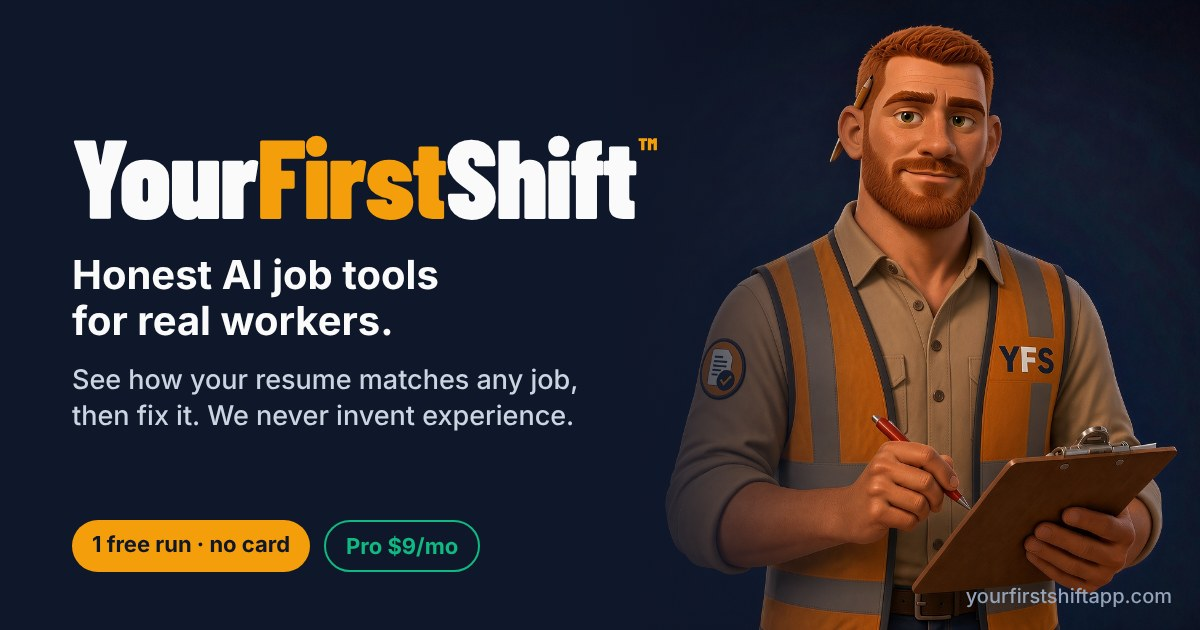
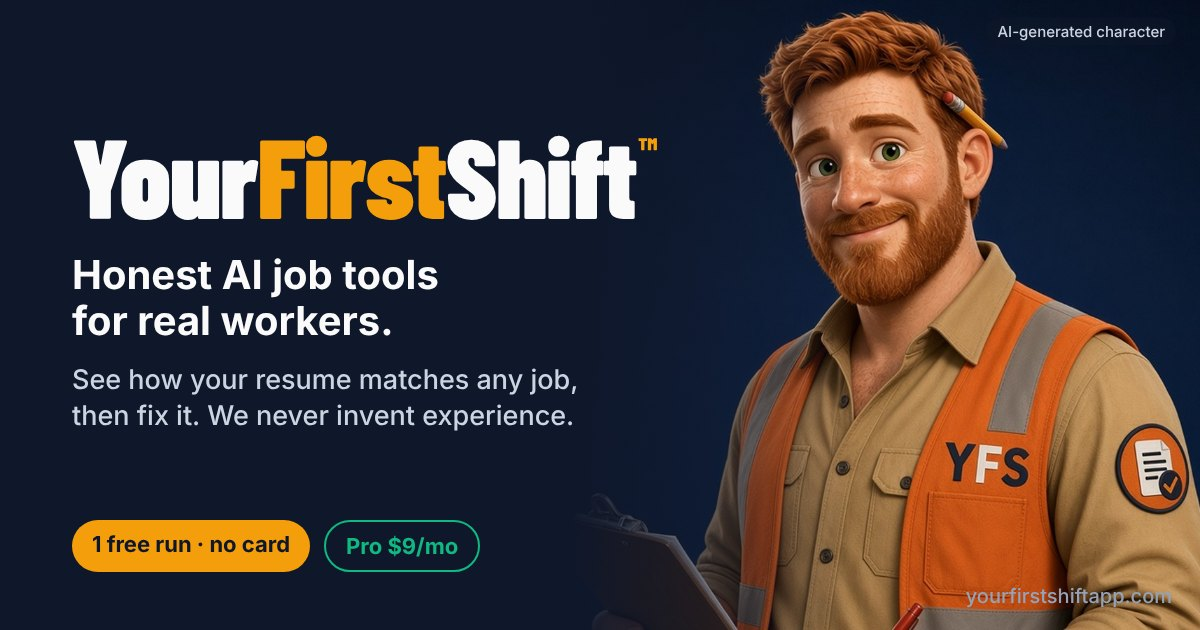
og-image: switch link preview to the approved curly Owen
Same layout and copy as before; adds an AI-generated character label.
Only og-image.jpg changes; no app or Worker code touched.

Claude-Session: https://claude.ai/code/session_01DFL7XLFVWtgxsggFR62FwX

Changed region(s): [[0.5242, 0.0, 1.0, 1.0], [0.8325, 0.0302, 0.9867, 0.0603]]

diff --git a/docs/returns/CLAUDE-RETURN-og-curly.md b/docs/returns/CLAUDE-RETURN-og-curly.md
@@ -1,0 +1,11 @@
+# CLAUDE RETURN: og-curly (link preview uses the new curly Owen)
+
+**What:** Replaces `og-image.jpg` (1200x630, 94 KB) with a version that uses the approved curly-hair Owen (OWEN MASTER front, curly, 2026-11-07). Same layout, text and colors as before. Adds a small "AI-generated character" label, top right.
+
+**Files:** `og-image.jpg` only (plus this note). No change to app.html, the Worker, checkout, pricing, Pro/pack, org codes or Stripe.
+
+**Deploy:** Upload the new `og-image.jpg` to the site root (same URL as now). Nothing else.
+
+**After deploy:** iMessage, Facebook and TikTok cache link previews, so old shares may show short-hair Owen for a few days. New shares pick it up faster. Facebook's Sharing Debugger "Scrape again" forces a refresh.
+
+**Phone check:** text yourself https://yourfirstshiftapp.com/app.html?v=og2 and confirm the preview shows curly Owen with the patch and YFS visible.
